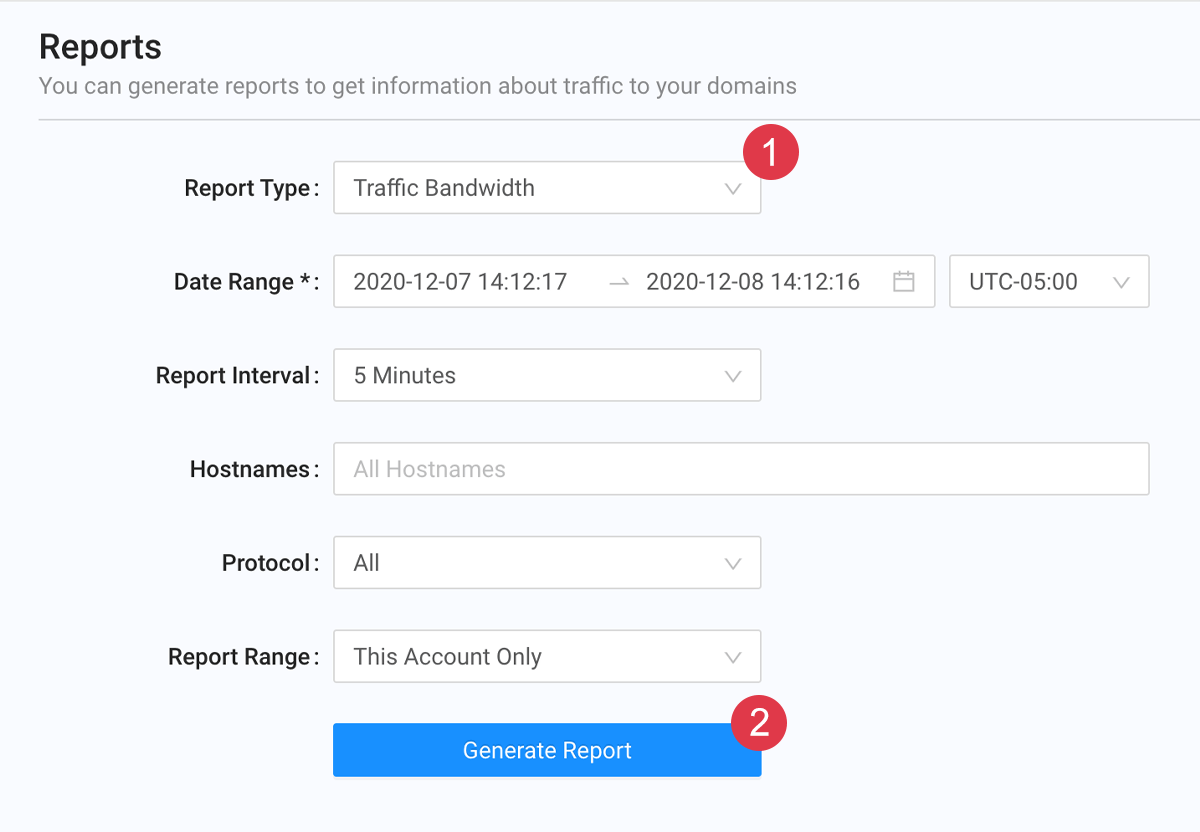
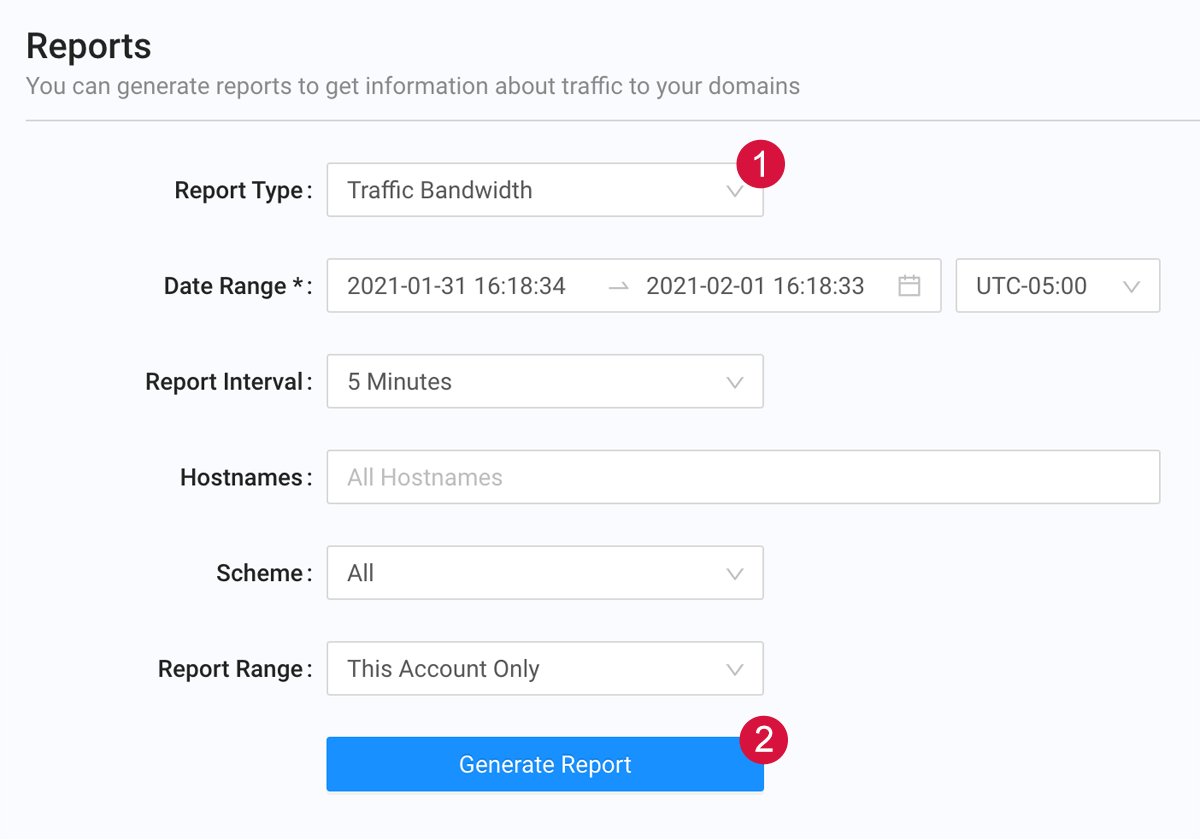
Addresses Jira ticket CP-2277 and some additional minor edits

diff --git a/docs/portal/reports.md b/docs/portal/reports.md
@@ -8,10 +8,10 @@ The following figure shows the key elements on the page, and the table following
 
 <p align=center><img src="/docs/resources/images/reports-w-numbers.png" alt="report page" width="900"></p>
 
-| **Element Number**|**Description**|
-|-|-|
-|<p style="text-align: center;">1</p>|Specify the report type, date range, report interval, hostname, protocol, and report range.|
-|<p style="text-align: center;">2</p>|The **Generate Report** button allows you to generate the report defined by the report parameters.|
+| **Fields**   | **Description**                                                                                           |
+| :----------: | --------------------------------------------------------------------------------------------------------- |
+| 1            | Specify the report type, date range, report interval, hostname, protocol, and report range.               |
+| 2            | The **Generate Report** button allows you to generate the report defined by the report parameters.        |
 
 ## Supported Report Types
 
@@ -43,7 +43,7 @@ The following report types are supported:
 | Report Interval | For all reports except Traffic Volume Summary, select the granularity of the returned data. <li><strong>5 minutes</strong>. *(default)*</li><li><strong>1 Hour</strong>.</li><li><strong>1 Day</strong>.</li><li><strong>1 Month.</li></li>
 | Hostnames       | For all reports except Edge Hostname Request, select one or more hostnames defined in your properties.         |
 | Edge Hostnames  | For Edge Hostname Request, select one or more edge hostnames.         |
-| Protocol        | For all reports except Edge Hostname Request, select the protocol-based data traffic that will be reported. <li><strong>All</strong> = report  HTTP and HTTPS traffic. *(default)*<li><strong>HTTP</strong> = report HTTP traffic only.<br><li><strong>HTTPS</strong> = report HTTPS traffic only.         | 
+| Scheme        | For all reports except Edge Hostname Request, select the protocol-based data traffic that will be reported. <li><strong>All</strong> = report  HTTP and HTTPS traffic. *(default)*<li><strong>HTTP</strong> = report HTTP traffic only.<br><li><strong>HTTPS</strong> = report HTTPS traffic only.         | 
 | Report Range        | If you are a reseller with child accounts, select the account that this report will cover. <li><strong>This Account Only</strong>. *(default)*</li><li><strong>Children Accounts Only</strong>.</li><li><strong>This Account + Children</strong>.
 | Server Groups        | By default Traffic Volume Summary reports on all server groups. To choose specific server groups, select them from the available choices.<li><strong>Standard</strong></li><li><strong>Premium</strong>.</li><li><strong>Premium+</strong>.</li><li><strong>Ultra</strong>.|
 | Report Range        | If you are a reseller with child accounts, select the account that this report will cover. <li><strong>This Account Only</strong>. *(default)*</li><li><strong>Children Accounts Only</strong>.</li><li><strong>This Account + Children</strong>.|

diff --git a/docs/portal/certificates/overview.md b/docs/portal/certificates/overview.md
@@ -15,13 +15,15 @@ The following figure shows the key elements on the page, and the table following
 
 <p align="center"><img src="/docs/resources/images/certificates/certificates-w-numbers.png" alt="Certificate List" width="900"></p>
 
-| **Element Number**|**Description**|
-|-|-|
-|<p style="text-align: center;">1</p>|A search box that you can enter any keyword to filter the certificate list.|
-|<p style="text-align: center;">2</p>|The list of all certificates that are available to you. Click the **+** sign for details about the certificate.|
-|<p style="text-align: center;">3</p>|Icons to filter certificates by Auto Renew, Staging Version, and Production Version.|
-|<p style="text-align: center;">4</p>|Drop-down lists to take actions on each certificate.|
-|<p style="text-align: center;">5<p>|The button to [create new certificates](</docs/portal/certificates/creating-certificates.md>).|
+| **Fields**   | **Description**                                                                                           |
+| :----------: | --------------------------------------------------------------------------------------------------------- |
+| 1            | A search box that you can enter any keyword to filter the certificate list.                               |
+| 2            | The list of all certificates that are available to you. Click the **+** sign for details about the certificate.  |
+| 3            | Icons to filter certificates by Auto Renew, Staging Version, and Production Version.                      |
+| 4            | Drop-down lists to take actions on each certificate.                                                      |
+| 5            | The button to [create new certificates](</docs/portal/certificates/creating-certificates.md>).            |
+
+
 
 ## Certificate Actions
 Each certificate has a vertical ellipsis in the **Actions** column. Clicking the ellipsis shows the available actions that can be performed on the selected certificate.

diff --git a/docs/portal/edge-configurations/managing-origins.md b/docs/portal/edge-configurations/managing-origins.md
@@ -7,10 +7,10 @@ Origins are your web servers containing the content you want CDN360 to accelerat
 
 1. In the left pane, click **Edge Configurations**.
 2. From the Properties page, click the ID of the property you want to edit, and then select the version from the **Version Number** drop-down list. 
-3. Click the **Edit** or **Clone** button to make changes. A section similar to the one below appears.<p>
+3. Click the **Edit** or **Clone** button to make changes.
 4. Edit or remove an existing origin or add a new one:
-   - If there is an existing origin (similar to the "temporary" one in the figure below), you can click the <strong>Edit</strong> link in the <strong>Origins</strong> field and complete the fields in the following dialog box to edit the origin, or click the <strong>Remove</strong> link to remove the origin. 
-   - To add a new origin, click the <strong>Add New</strong> link, and then complete the fields in the following dialog box. Required fields are denoted by an asterisk (*). 
+   - If there is an existing origin (similar to the one in the figure below), you can click the <strong>Edit</strong> link in the <strong>Origins</strong> field and complete the fields in the following dialog box to edit the origin, or click the <strong>Remove</strong> link to remove the origin. 
+   - To add a new origin, click the <strong>Add New</strong> link, and then complete the fields in the following dialog box. Required fields are denoted by an asterisk (*).
 
 <p align="center"><img src="/docs/resources/images/edge-configurations/property-origins.png" width="700"></p>
 

diff --git a/docs/portal/traffic-management/overview.md b/docs/portal/traffic-management/overview.md
@@ -10,8 +10,8 @@ In the left pane, click **Traffic Management** to see a page with a list of the 
 | :----------: | ---------------------------------------------------------------------------------------|
 | 1            | A search box that you can enter any keyword to filter the edge hostname list.          |
 | 2            | The list of all edge hostnames in your account.                                        |
-| 3            | The icon to filter edge hostnames by Has Bien.                                  |
-| 4            | Drop-down lists to take actions on each edge hostname.    |
+| 3            | The icon to filter edge hostnames by Has Bien.                                         |
+| 4            | Drop-down lists to take actions on each edge hostname.                                 |
 | 5            | The button to [create a new edge hostname](</docs/portal/traffic-management/creating-edge-hostname.md>).    |
 
 ## Edge Hostname Actions

diff --git a/docs/portal/identities-and-access/managing-roles.md b/docs/portal/identities-and-access/managing-roles.md
@@ -20,7 +20,7 @@ Administrators add roles from the **Roles** tab on the Identity & Access Managem
 ![null](</docs/resources/images/identities-and-access/iam-add-role.png>)
 
 | **Fields**           | **Description**                   |
-|     ---------------- |---------------------------------- |
+| -------------------- |---------------------------------- |
 | Role Name            | Enter a name for this role.       |
 | Description          | Enter a description for this role.|
 | Permissions          | To assign one or more permissions to this role, click **+ Add Permissions**, check one or more permissions in the Add Permissions dialog box, and then click **Save**. If you decide not to add one or more permissions to this role, check them, and then click the **Delete** button in the **Permissions** section.|

diff --git a/docs/portal/tasks/deployments.md b/docs/portal/tasks/deployments.md
@@ -8,7 +8,7 @@ When a property and its associated certificates are deployed, CDN360 sends the c
 
 <p align="center"><img src="/docs/resources/images/tasks/tasks-deployment.png" alt="Deployment Tasks" width="900"></p>
  
-2. To filter results by time range, click the icon circled in the following figure and specify a start date and end date for your search.
+2. To filter results by time range, click the icon circled in the figure below and specify a start date and end date for your search.
 
 **Note:** You can also use the **Search** box at the top of the Deployment form to filter the results. Filtering is not case-sensitive.
 

diff --git a/docs/portal/tasks/validations.md b/docs/portal/tasks/validations.md
@@ -8,7 +8,7 @@ You can check the status of all property validations using the Tasks.
 
 <p align="center"><img src="/docs/resources/images/tasks/tasks-validation.png" alt="Validation Tasks" width="900"></p>
  
-2. To filter results by time range, click the icon circled in the following figure and specify a start date and end date for your search.
+2. To filter results by time range, click the icon circled in the figure below and specify a start date and end date for your search.
 
 **Note:** You can also use the **Search** box at the top to filter the results. Filtering is not case-sensitive.
 
